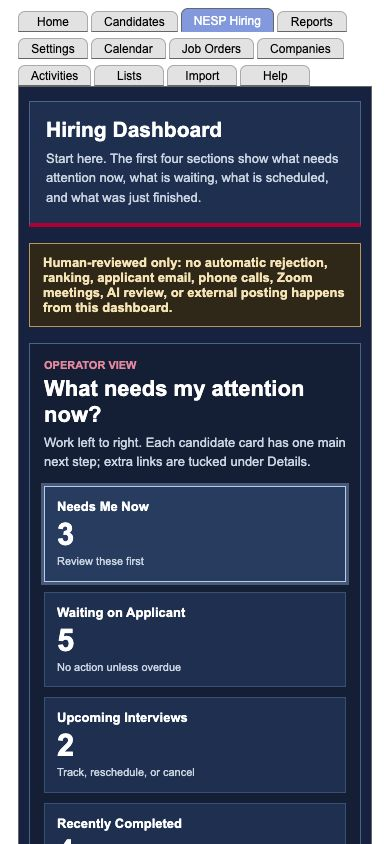
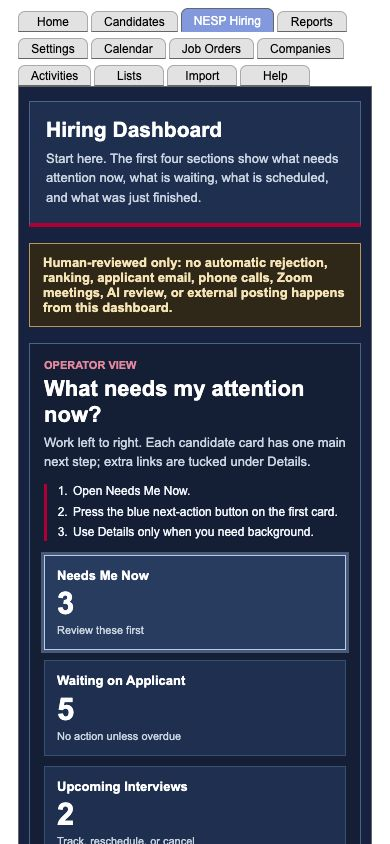
Clarify dashboard start here flow

Changed region(s): [[0.0923, 0.5545, 0.8923, 1.0]]

diff --git a/modules/nesp/nespWorkflow.css b/modules/nesp/nespWorkflow.css
@@ -241,6 +241,22 @@
     margin: 0;
 }
 
+.nesp-workflow .nesp-start-list {
+    border-left: 3px solid var(--nesp-dashboard-red);
+    color: var(--nesp-dashboard-text);
+    display: grid;
+    gap: 5px;
+    font-size: 13px;
+    line-height: 1.35;
+    margin: 12px 0 0;
+    padding: 0 0 0 24px;
+}
+
+.nesp-workflow .nesp-start-list li {
+    color: var(--nesp-dashboard-text);
+    padding-left: 2px;
+}
+
 .nesp-workflow .nesp-attention-grid {
     display: grid;
     gap: 10px;

diff --git a/test/fixtures/nesp_operator_dashboard_render.html b/test/fixtures/nesp_operator_dashboard_render.html
@@ -36,6 +36,11 @@
                     <span class="nesp-kicker">Operator view</span>
                     <h3>What needs my attention now?</h3>
                     <p>Work left to right. Each candidate card has one main next step; extra links are tucked under Details.</p>
+                    <ol class="nesp-start-list" aria-label="Start here checklist">
+                        <li>Open Needs Me Now.</li>
+                        <li>Press the blue next-action button on the first card.</li>
+                        <li>Use Details only when you need background.</li>
+                    </ol>
                 </div>
                 <div class="nesp-attention-grid">
                     <a class="nesp-attention-card active" href="#"><span>Needs Me Now</span><strong>3</strong><em>Review these first</em></a>